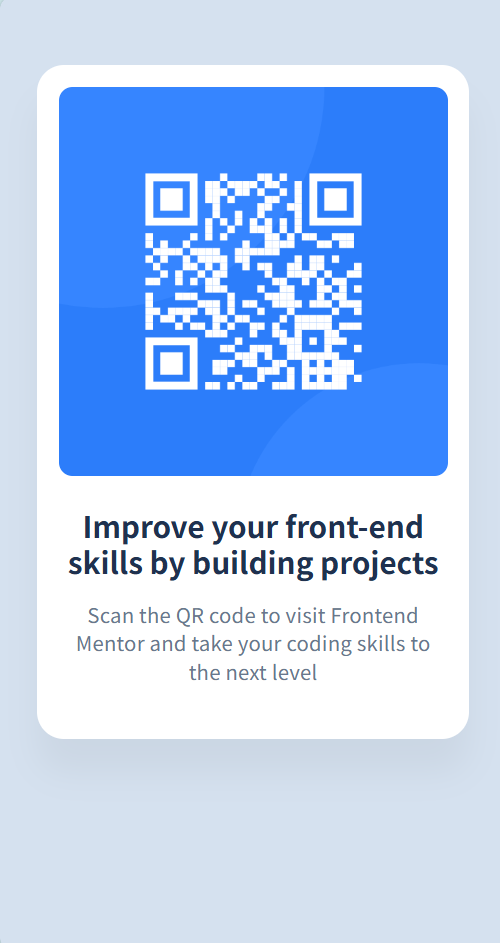
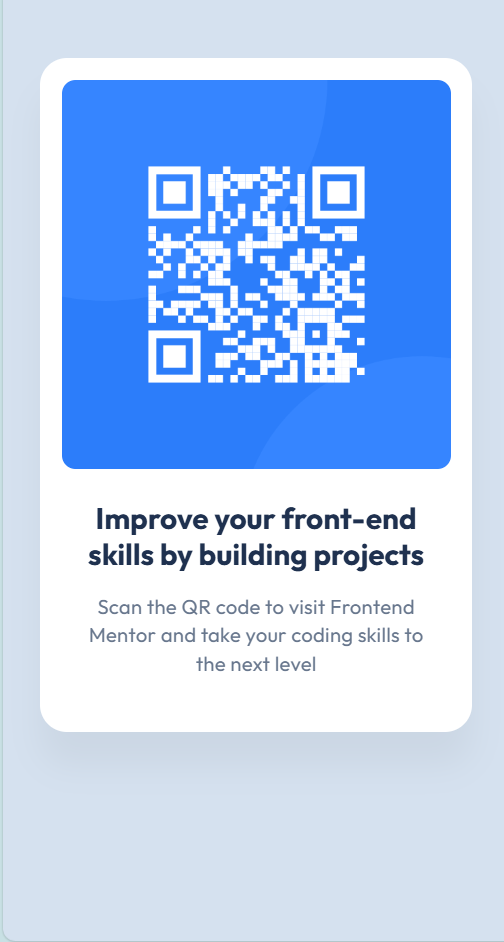
修复错误的字体族引入，修改文字div以精确布局

diff --git a/index.html b/index.html
@@ -23,8 +23,14 @@
       <div class="content">
           <div class="qr-code">
             <img src="./assets/images/image-qr-code.png" alt="QR Code" />
-            <p class="text-preset-1">Improve your front-end skills by building projects</p>
-            <p class="text-preset-2">Scan the QR code to visit Frontend Mentor and take your coding skills to the next level</p>
+            <div class="text-box">
+              <div class="title-box">
+                <p class="text-preset-1">Improve your front-end skills by building projects</p>
+              </div>
+              <div class="content-box">
+                <p class="text-preset-2">Scan the QR code to visit Frontend Mentor and take your coding skills to the next level</p>
+              </div>
+            </div>
           </div>
         </div>
     </div>

diff --git a/assets/styles/style.css b/assets/styles/style.css
@@ -28,10 +28,30 @@
         height: 288px;        
         object-fit: cover;
     }
-    .text-preset-1{
+
+    .text-box{
+        height: 131px;
+        width: 288px;
         margin-top: var(--spacing-300);
-        margin-bottom: var(--spacing-200);
+        padding: 0 16px;
+
+        .title-box{
+            height: 52px;
+            width: 256px;
+            text-align: center;
+            vertical-align:top;
+            margin-bottom: var(--spacing-200);
+        }
+
+        .content-box{
+            height: 63px;
+            width: 256px;
+            text-align: center;
+            vertical-align:top;
+        }
     }
+    
+
 }
 
 @media (min-width: 1440px) {

diff --git a/assets/styles/common.css b/assets/styles/common.css
@@ -30,7 +30,7 @@ body {
      
 @font-face {
   font-family: 'Outfit';
-  src: url('./fonts/Outfit-Regular.ttf');
+  src: url('../font/Outfit-VariableFont_wght.ttf');
 }     
 
 .text-preset-1 {
